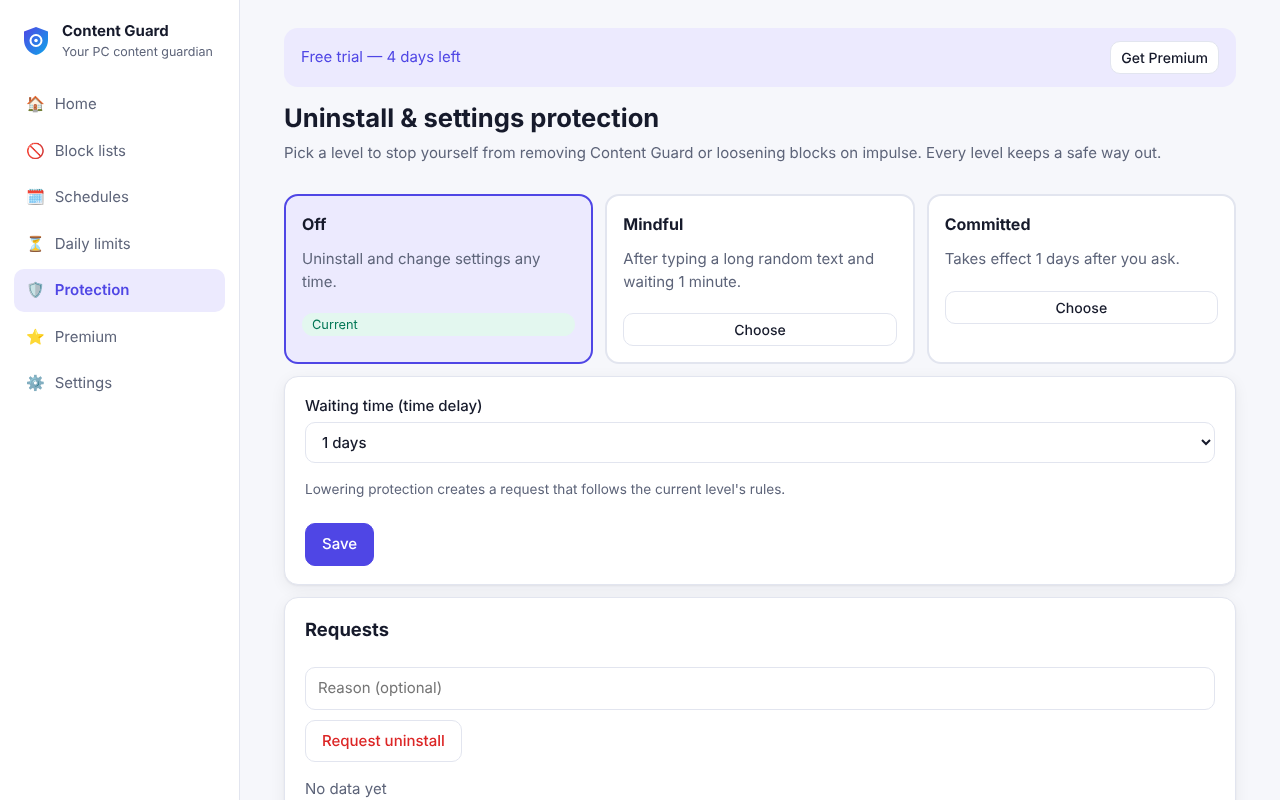
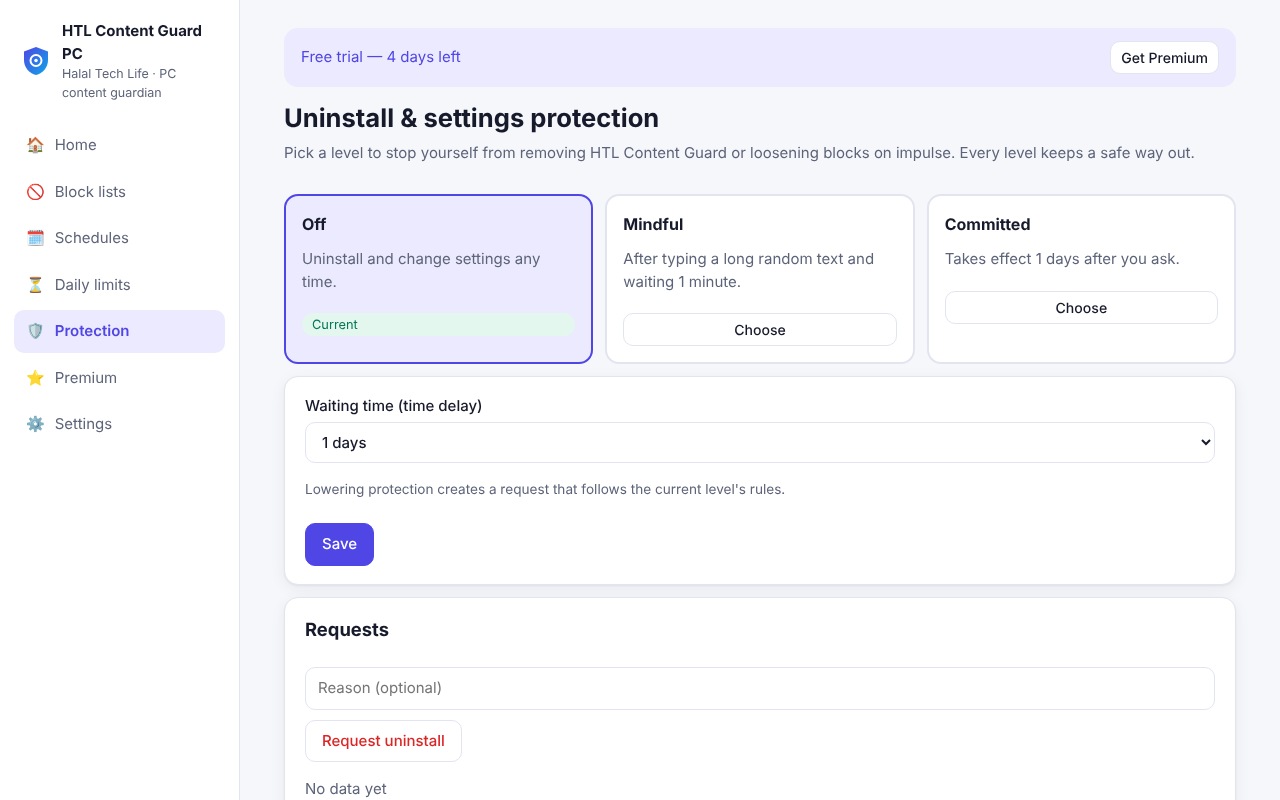
Rebrand user-facing name to HTL Content Guard PC
Change only display strings (UI title/tagline, settings footer, extension
manifest name/title and popup/block pages, privacy policy, store guide,
screenshots and promo tiles) to 'HTL Content Guard PC' / 'HTL Content Guard'.
Internal identifiers (crate/binary names, env vars, data dir, service id,
Firefox gecko id, registry policy keys, the Chrome extension id) are left
unchanged so existing installs and the extension identity keep working.

Claude-Session: https://claude.ai/code/session_01UTQai3BUKTmaACcxH3xoiL

diff --git a/ui/i18n.js b/ui/i18n.js
@@ -1,18 +1,18 @@
 // UI strings. Bangla is the default; English is the fallback for missing keys.
 export const STRINGS = {
   bn: {
-    app_name: "Content Guard",
-    tagline: "আপনার কম্পিউটারের কন্টেন্ট প্রহরী",
+    app_name: "HTL Content Guard PC",
+    tagline: "হালাল টেক লাইফ · কম্পিউটারের কন্টেন্ট প্রহরী",
     nav_home: "হোম",
     nav_lists: "ব্লক লিস্ট",
     nav_schedules: "সময়সূচি",
     nav_limits: "দৈনিক সীমা",
     nav_protection: "সুরক্ষা",
     nav_settings: "সেটিংস",
-    agent_offline: "ContentGuard সার্ভিস চলছে না। অ্যাপটি আবার install করুন অথবা কম্পিউটার restart দিন।",
+    agent_offline: "HTL Content Guard সার্ভিস চলছে না। অ্যাপটি আবার install করুন অথবা কম্পিউটার restart দিন।",
     hosts_error: "ওয়েবসাইট ব্লক করার অনুমতি নেই (hosts file)। সার্ভিসটি Administrator হিসেবে চলছে কিনা দেখুন।",
     ext_missing: "ব্রাউজার extension যুক্ত নেই। Shorts/Reels, keyword আর allowlist ব্লক করতে extension install করুন।",
-    clock_changed: "কম্পিউটারের ঘড়ি বদলানো হয়েছে বলে মনে হচ্ছে। ContentGuard সঠিক সময় ধরে চলছে।",
+    clock_changed: "কম্পিউটারের ঘড়ি বদলানো হয়েছে বলে মনে হচ্ছে। HTL Content Guard সঠিক সময় ধরে চলছে।",
     practice_mode: "প্র্যাকটিস মোড: প্রথম ৭ দিন lock সর্বোচ্চ ২ ঘণ্টা হবে, যাতে ভুল করে আটকে না যান।",
     end_practice: "প্র্যাকটিস মোড বন্ধ করুন",
     nothing_blocked: "এখন কিছু ব্লক হচ্ছে না",
@@ -79,7 +79,7 @@ export const STRINGS = {
     used_today: "আজ ব্যবহার",
     opens: "বার খোলা",
     protection_title: "আনইন্সটল ও সেটিংস সুরক্ষা",
-    protection_intro: "ঝোঁকের মাথায় Content Guard মুছে ফেলা বা ব্লক ঢিলা করা ঠেকাতে একটি স্তর বেছে নিন। প্রতিটি স্তরেই একটি নিরাপদ বের হওয়ার পথ থাকে।",
+    protection_intro: "ঝোঁকের মাথায় HTL Content Guard মুছে ফেলা বা ব্লক ঢিলা করা ঠেকাতে একটি স্তর বেছে নিন। প্রতিটি স্তরেই একটি নিরাপদ বের হওয়ার পথ থাকে।",
     level_off: "বন্ধ",
     level_off_desc: "যেকোনো সময় uninstall ও সেটিংস বদলানো যাবে।",
     level_mindful: "সচেতন",
@@ -94,7 +94,7 @@ export const STRINGS = {
     partner_name: "পার্টনারের নাম",
     partner_email: "পার্টনারের ইমেইল",
     partner_timeout: "পার্টনার উত্তর না দিলে কত দিন পর নিজে থেকে অনুমোদন",
-    tamper_alerts: "ContentGuard বন্ধ বা সরানো হলে পার্টনারকে জানান",
+    tamper_alerts: "HTL Content Guard বন্ধ বা সরানো হলে পার্টনারকে জানান",
     protection_lower_note: "সুরক্ষা কমাতে একটি অনুরোধ তৈরি হবে এবং বর্তমান স্তরের নিয়ম মানতে হবে।",
     requests: "অনুরোধসমূহ",
     request_uninstall: "Uninstall করার অনুরোধ",
@@ -144,7 +144,7 @@ export const STRINGS = {
     sync_ok: "শেষ সিঙ্ক",
     sync_error: "সিঙ্ক সমস্যা",
     extension_title: "ব্রাউজার extension",
-    extension_help: "Chrome/Edge/Brave: chrome://extensions খুলে Developer mode চালু করুন → Load unpacked → ContentGuard ফোল্ডারের 'extension' বেছে নিন। Firefox: about:debugging → Load Temporary Add-on। (Store-এ প্রকাশের পর এক ক্লিকে install হবে।)",
+    extension_help: "Chrome/Edge/Brave: chrome://extensions খুলে Developer mode চালু করুন → Load unpacked → HTL Content Guard ফোল্ডারের 'extension' বেছে নিন। Firefox: about:debugging → Load Temporary Add-on। (Store-এ প্রকাশের পর এক ক্লিকে install হবে।)",
     saved: "সেভ হয়েছে",
     error: "সমস্যা",
     err_list_locked: "লিস্টটি লক করা — শুধু যোগ করা যাবে।",
@@ -196,7 +196,7 @@ export const STRINGS = {
     delay_hours: "{n} ঘণ্টা",
     browsers_title: "ব্রাউজার সুরক্ষা",
     block_unsupported: "ব্লক চলাকালীন unsupported ব্রাউজার বন্ধ করে দিন",
-    block_unsupported_help: "যেসব ব্রাউজারে ContentGuard স্ক্যান করতে পারে না, সেগুলো দিয়ে ফাঁকি ঠেকাতে বন্ধ করা হবে।",
+    block_unsupported_help: "যেসব ব্রাউজারে HTL Content Guard স্ক্যান করতে পারে না, সেগুলো দিয়ে ফাঁকি ঠেকাতে বন্ধ করা হবে।",
     safe_search: "SafeSearch জোর করে চালু রাখুন (Google, Bing, YouTube, DuckDuckGo)",
     safe_search_help: "সার্চ ইঞ্জিন ও YouTube-এ প্রাপ্তবয়স্ক ফলাফল আপনাআপনি লুকিয়ে যাবে — সব ব্রাউজারে।",
     backup_title: "ব্যাকআপ (সেটিংস রপ্তানি/আমদানি)",
@@ -217,18 +217,18 @@ export const STRINGS = {
     err_payment_required: "Premium ছাড়া নতুন ব্লক যোগ বা আরও কড়া করা যাবে না।",
   },
   en: {
-    app_name: "Content Guard",
-    tagline: "Your PC content guardian",
+    app_name: "HTL Content Guard PC",
+    tagline: "Halal Tech Life · PC content guardian",
     nav_home: "Home",
     nav_lists: "Block lists",
     nav_schedules: "Schedules",
     nav_limits: "Daily limits",
     nav_protection: "Protection",
     nav_settings: "Settings",
-    agent_offline: "The ContentGuard service is not running. Reinstall the app or restart your computer.",
+    agent_offline: "The HTL Content Guard service is not running. Reinstall the app or restart your computer.",
     hosts_error: "No permission to block websites (hosts file). Make sure the service runs as Administrator.",
     ext_missing: "Browser extension not connected. Install it to block Shorts/Reels, keywords and use allowlists.",
-    clock_changed: "The system clock seems to have been changed. ContentGuard keeps using the correct time.",
+    clock_changed: "The system clock seems to have been changed. HTL Content Guard keeps using the correct time.",
     practice_mode: "Practice mode: for the first 7 days locks are capped at 2 hours so you can't trap yourself by mistake.",
     end_practice: "End practice mode",
     nothing_blocked: "Nothing is blocked right now",
@@ -295,7 +295,7 @@ export const STRINGS = {
     used_today: "Used today",
     opens: "opens",
     protection_title: "Uninstall & settings protection",
-    protection_intro: "Pick a level to stop yourself from removing Content Guard or loosening blocks on impulse. Every level keeps a safe way out.",
+    protection_intro: "Pick a level to stop yourself from removing HTL Content Guard or loosening blocks on impulse. Every level keeps a safe way out.",
     level_off: "Off",
     level_off_desc: "Uninstall and change settings any time.",
     level_mindful: "Mindful",
@@ -310,7 +310,7 @@ export const STRINGS = {
     partner_name: "Partner name",
     partner_email: "Partner email",
     partner_timeout: "Auto-approve after this many days without an answer",
-    tamper_alerts: "Tell my partner if ContentGuard is stopped or removed",
+    tamper_alerts: "Tell my partner if HTL Content Guard is stopped or removed",
     protection_lower_note: "Lowering protection creates a request that follows the current level's rules.",
     requests: "Requests",
     request_uninstall: "Request uninstall",
@@ -360,7 +360,7 @@ export const STRINGS = {
     sync_ok: "Last sync",
     sync_error: "Sync problem",
     extension_title: "Browser extension",
-    extension_help: "Chrome/Edge/Brave: open chrome://extensions, turn on Developer mode → Load unpacked → pick the 'extension' folder inside ContentGuard. Firefox: about:debugging → Load Temporary Add-on. (One-click install once published to the stores.)",
+    extension_help: "Chrome/Edge/Brave: open chrome://extensions, turn on Developer mode → Load unpacked → pick the 'extension' folder inside HTL Content Guard. Firefox: about:debugging → Load Temporary Add-on. (One-click install once published to the stores.)",
     saved: "Saved",
     error: "Error",
     err_list_locked: "The list is locked — you can only add to it.",
@@ -412,7 +412,7 @@ export const STRINGS = {
     delay_hours: "{n} hours",
     browsers_title: "Browser protection",
     block_unsupported: "Close unsupported browsers while blocking",
-    block_unsupported_help: "Browsers ContentGuard can't scan are closed so they can't be used to bypass blocks.",
+    block_unsupported_help: "Browsers HTL Content Guard can't scan are closed so they can't be used to bypass blocks.",
     safe_search: "Force SafeSearch (Google, Bing, YouTube, DuckDuckGo)",
     safe_search_help: "Adult results on search engines and YouTube are hidden automatically — in every browser.",
     backup_title: "Backup (export/import settings)",

diff --git a/extension/popup.js b/extension/popup.js
@@ -2,8 +2,8 @@ const ext = globalThis.browser ?? chrome;
 ext.storage.local.get(["policy", "agentOnline"]).then(({ policy, agentOnline }) => {
   const bn = policy?.language === "bn";
   const s = document.getElementById("s");
-  if (!agentOnline) s.textContent = bn ? "ContentGuard সার্ভিস পাওয়া যাচ্ছে না" : "ContentGuard service not reachable";
+  if (!agentOnline) s.textContent = bn ? "HTL Content Guard সার্ভিস পাওয়া যাচ্ছে না" : "HTL Content Guard service not reachable";
   else if (policy?.active?.length) s.textContent = (bn ? "ব্লক চলছে: " : "Blocking: ") + policy.active.map((a) => a.block_list_name).join(", ");
   else s.textContent = bn ? "এখন কিছু ব্লক হচ্ছে না" : "Nothing blocked right now";
-  document.getElementById("o").textContent = bn ? "ContentGuard খুলুন" : "Open ContentGuard";
+  document.getElementById("o").textContent = bn ? "HTL Content Guard খুলুন" : "Open HTL Content Guard";
 });

diff --git a/extension/popup.html b/extension/popup.html
@@ -1,5 +1,5 @@
 <!doctype html>
 <html>
 <head><meta charset="utf-8"><link rel="stylesheet" href="blocked.css"><style>body{min-height:auto;padding:0} main{padding:20px;width:260px;box-shadow:none;border-radius:0}</style></head>
-<body><main><img src="icons/icon48.png" alt="" width="40" height="40"><h1 style="font-size:1.1rem" id="t">ContentGuard</h1><p id="s" class="muted"></p><div class="actions"><a href="http://127.0.0.1:17345/" target="_blank" rel="noopener" id="o">Open</a></div></main><script src="popup.js"></script></body>
+<body><main><img src="icons/icon48.png" alt="" width="40" height="40"><h1 style="font-size:1.1rem" id="t">HTL Content Guard</h1><p id="s" class="muted"></p><div class="actions"><a href="http://127.0.0.1:17345/" target="_blank" rel="noopener" id="o">Open</a></div></main><script src="popup.js"></script></body>
 </html>

diff --git a/ui/index.html b/ui/index.html
@@ -3,14 +3,14 @@
 <head>
   <meta charset="utf-8">
   <meta name="viewport" content="width=device-width, initial-scale=1">
-  <title>Content Guard</title>
+  <title>HTL Content Guard PC</title>
   <link rel="icon" href="/icon.svg" type="image/svg+xml">
   <link rel="stylesheet" href="/style.css">
 </head>
 <body>
   <div class="layout">
     <nav class="sidebar" aria-label="Main">
-      <div class="brand"><img src="/icon.svg" alt="" width="32" height="32"><div><strong>Content Guard</strong><small id="tagline"></small></div></div>
+      <div class="brand"><img src="/icon.svg" alt="" width="32" height="32"><div><strong>HTL Content Guard PC</strong><small id="tagline"></small></div></div>
       <ul id="nav"></ul>
     </nav>
     <main id="main" tabindex="-1"></main>

diff --git a/extension/blocked.js b/extension/blocked.js
@@ -5,7 +5,7 @@ const TEXT = {
   bn: {
     title: "এই সাইটটি এখন ব্লক করা",
     back: "পেছনে যান",
-    open: "ContentGuard খুলুন",
+    open: "HTL Content Guard খুলুন",
     until: "পর্যন্ত",
     session: "ফোকাস সেশন চলছে",
     schedule: "সময়সূচি অনুযায়ী ব্লক",
@@ -22,7 +22,7 @@ const TEXT = {
   en: {
     title: "This site is blocked right now",
     back: "Go back",
-    open: "Open ContentGuard",
+    open: "Open HTL Content Guard",
     until: "until",
     session: "Focus session in progress",
     schedule: "Blocked by schedule",

diff --git a/ui/protection.js b/ui/protection.js
@@ -203,7 +203,7 @@ export function renderSettings(main) {
       </details>
 
       <section class="card stack"><h2>${t("extension_title")}</h2><p class="muted">${t("extension_help")}</p></section>
-      <p class="muted">Content Guard v${esc(S.status.version)}</p>
+      <p class="muted">HTL Content Guard PC v${esc(S.status.version)}</p>
     </div>`;
   $("#s-save", main).addEventListener("click", () => saveConfig((c) => {
     c.settings.language = $("#s-lang", main).value;

diff --git a/extension/blocked.html b/extension/blocked.html
@@ -3,7 +3,7 @@
 <head>
   <meta charset="utf-8">
   <meta name="viewport" content="width=device-width, initial-scale=1">
-  <title>Content Guard</title>
+  <title>HTL Content Guard</title>
   <link rel="stylesheet" href="blocked.css">
 </head>
 <body>

diff --git a/packaging/extension/STORE-LISTING.md b/packaging/extension/STORE-LISTING.md
@@ -17,7 +17,7 @@ policy) are already done. You only upload and copy-paste.
 3. Click **“Add new item”** → upload **`dist/content-guard-extension.zip`**
    (drag-and-drop the file).
 4. Fill the listing fields by copy-pasting from **PART 2** below.
-5. For the screenshots: open the Content Guard app in your browser
+5. For the screenshots: open the HTL Content Guard app in your browser
    (`http://127.0.0.1:17345`), take 1–3 screenshots (1280×800), and upload them.
    (Tell me if you want me to generate polished promo images instead.)
 6. **Visibility:** choose **Unlisted** (works for force-install, not shown in
@@ -32,12 +32,12 @@ That’s it. Google reviews it (usually **1–3 days**).
 
 **Item name**
 ```
-Content Guard
+HTL Content Guard PC
 ```
 
 **Summary (short description, ≤132 chars)**
 ```
-Companion for the Content Guard blocker: block pages, keyword & path blocking, and hide Shorts, Reels and feeds.
+Companion for the HTL Content Guard blocker: block pages, keyword & path blocking, and hide Shorts, Reels and feeds.
 ```
 
 **Category:** `Workflow & Planning`  (or `Productivity`)
@@ -46,10 +46,10 @@ Companion for the Content Guard blocker: block pages, keyword & path blocking, a
 
 **Detailed description**
 ```
-Content Guard helps you stay away from distracting and harmful websites so you
+HTL Content Guard helps you stay away from distracting and harmful websites so you
 can focus on what matters.
 
-This extension is the browser companion for the Content Guard desktop app. On
+This extension is the browser companion for the HTL Content Guard desktop app. On
 its own it does nothing — it works together with the desktop app running on the
 same computer, and enforces the rules you set there:
 
@@ -59,11 +59,11 @@ same computer, and enforces the rules you set there:
   recommendations, Facebook feed and Reels, Instagram Reels, X and LinkedIn feeds.
 • A friendly block page that reminds you of your goal.
 
-Your privacy is protected: the extension talks only to the Content Guard app on
+Your privacy is protected: the extension talks only to the HTL Content Guard app on
 your own computer (localhost). It does not send your browsing anywhere — there
 is no tracking, no analytics and no ads.
 
-Get the free Content Guard desktop app first; this extension connects to it
+Get the free HTL Content Guard desktop app first; this extension connects to it
 automatically.
 ```
 
@@ -115,7 +115,7 @@ is nothing to paste and nothing to wait for me on:
 
 1. **Today:** you finish the listing (PART 2) and submit for review.
 2. **In 1–3 days:** Google approves. The extension is now live in the store.
-3. From then on, in the Content Guard app, **Settings → Browser protection →
+3. From then on, in the HTL Content Guard app, **Settings → Browser protection →
    tick “Lock the extension into my browsers”** is all it takes — every
    Chrome/Edge/Brave/Opera/Vivaldi on that PC then auto-installs the extension,
    locked so it can’t be removed. No id to type (the “Extension ID” box can stay
@@ -132,7 +132,7 @@ Open the **Privacy** tab (left menu of the item). Fill each box exactly:
 
 **Single purpose** (one description box):
 ```
-Enforce the website and content blocking rules the user set in the Content Guard desktop app, by blocking pages and hiding distracting sections on the sites the user chose.
+Enforce the website and content blocking rules the user set in the HTL Content Guard desktop app, by blocking pages and hiding distracting sections on the sites the user chose.
 ```
 
 **Permission justifications** — a box appears for each permission. Paste:

diff --git a/NOTES.md b/NOTES.md
@@ -201,3 +201,15 @@ host। পুরো গাইড + টুল: `packaging/extension/README.md`, 
 repo-তে রাখিনি (public হলে যে কেউ আমাদের ID দিয়ে ভুয়া extension বানাতে পারত)।
 
 টেস্ট: core 31→32, agent 20→26। সব পাস।
+
+# আপডেট — ১৮ অক্টোবর ২০২৬: রিব্র্যান্ড → "HTL Content Guard PC"
+
+ব্যবহারকারীর সিদ্ধান্ত: অ্যাপের নাম "HTL Content Guard PC" (HTL = Halal Tech Life)।
+শুধু **ব্যবহারকারী-দৃশ্যমান** নাম বদলানো হলো — UI title/tagline, settings footer,
+extension manifest name + default_title + popup/blocked পেজ, PRIVACY.md,
+STORE-LISTING.md, store screenshot + promo। ভেতরের টেকনিক্যাল আইডি **অপরিবর্তিত**
+(crate নাম contentguard-*, বাইনারি, CONTENTGUARD_* env, data dir, Windows service,
+Firefox gecko id extension@contentguard.app, রেজিস্ট্রি policy key, Chrome extension
+id pgocjgiigaakaplebgnfdbcdfaemkcnd) — এগুলো বদলালে এখনকার ইনস্টল + extension id
+ভাঙত। ZIP পুনরায় বানানো হয়েছে; ব্যবহারকারী Package ট্যাবে নতুন ZIP re-upload করবে
+(একই store item, একই id)।

diff --git a/PRIVACY.md b/PRIVACY.md
@@ -1,19 +1,19 @@
-# Content Guard — Privacy Policy
+# HTL Content Guard PC — Privacy Policy
 
 _Last updated: 2026-10-16_
 
-Content Guard is a self-control / website-and-app blocker. It is designed so
+HTL Content Guard is a self-control / website-and-app blocker. It is designed so
 that your browsing data **never leaves your computer**.
 
 ## What the browser extension does
 
-The Content Guard browser extension works only together with the Content Guard
+The HTL Content Guard browser extension works only together with the HTL Content Guard
 desktop application running on the same computer. It:
 
 - Reads the address of the page in the active tab to decide whether that page
   should be blocked, and to hide distracting sections (such as Shorts, Reels and
   feeds) according to the rules you chose in the desktop app.
-- Talks **only** to the Content Guard desktop app on your own computer, over the
+- Talks **only** to the HTL Content Guard desktop app on your own computer, over the
   local loopback address `127.0.0.1` (localhost). It does not send your browsing
   to us or to any third party.
 
